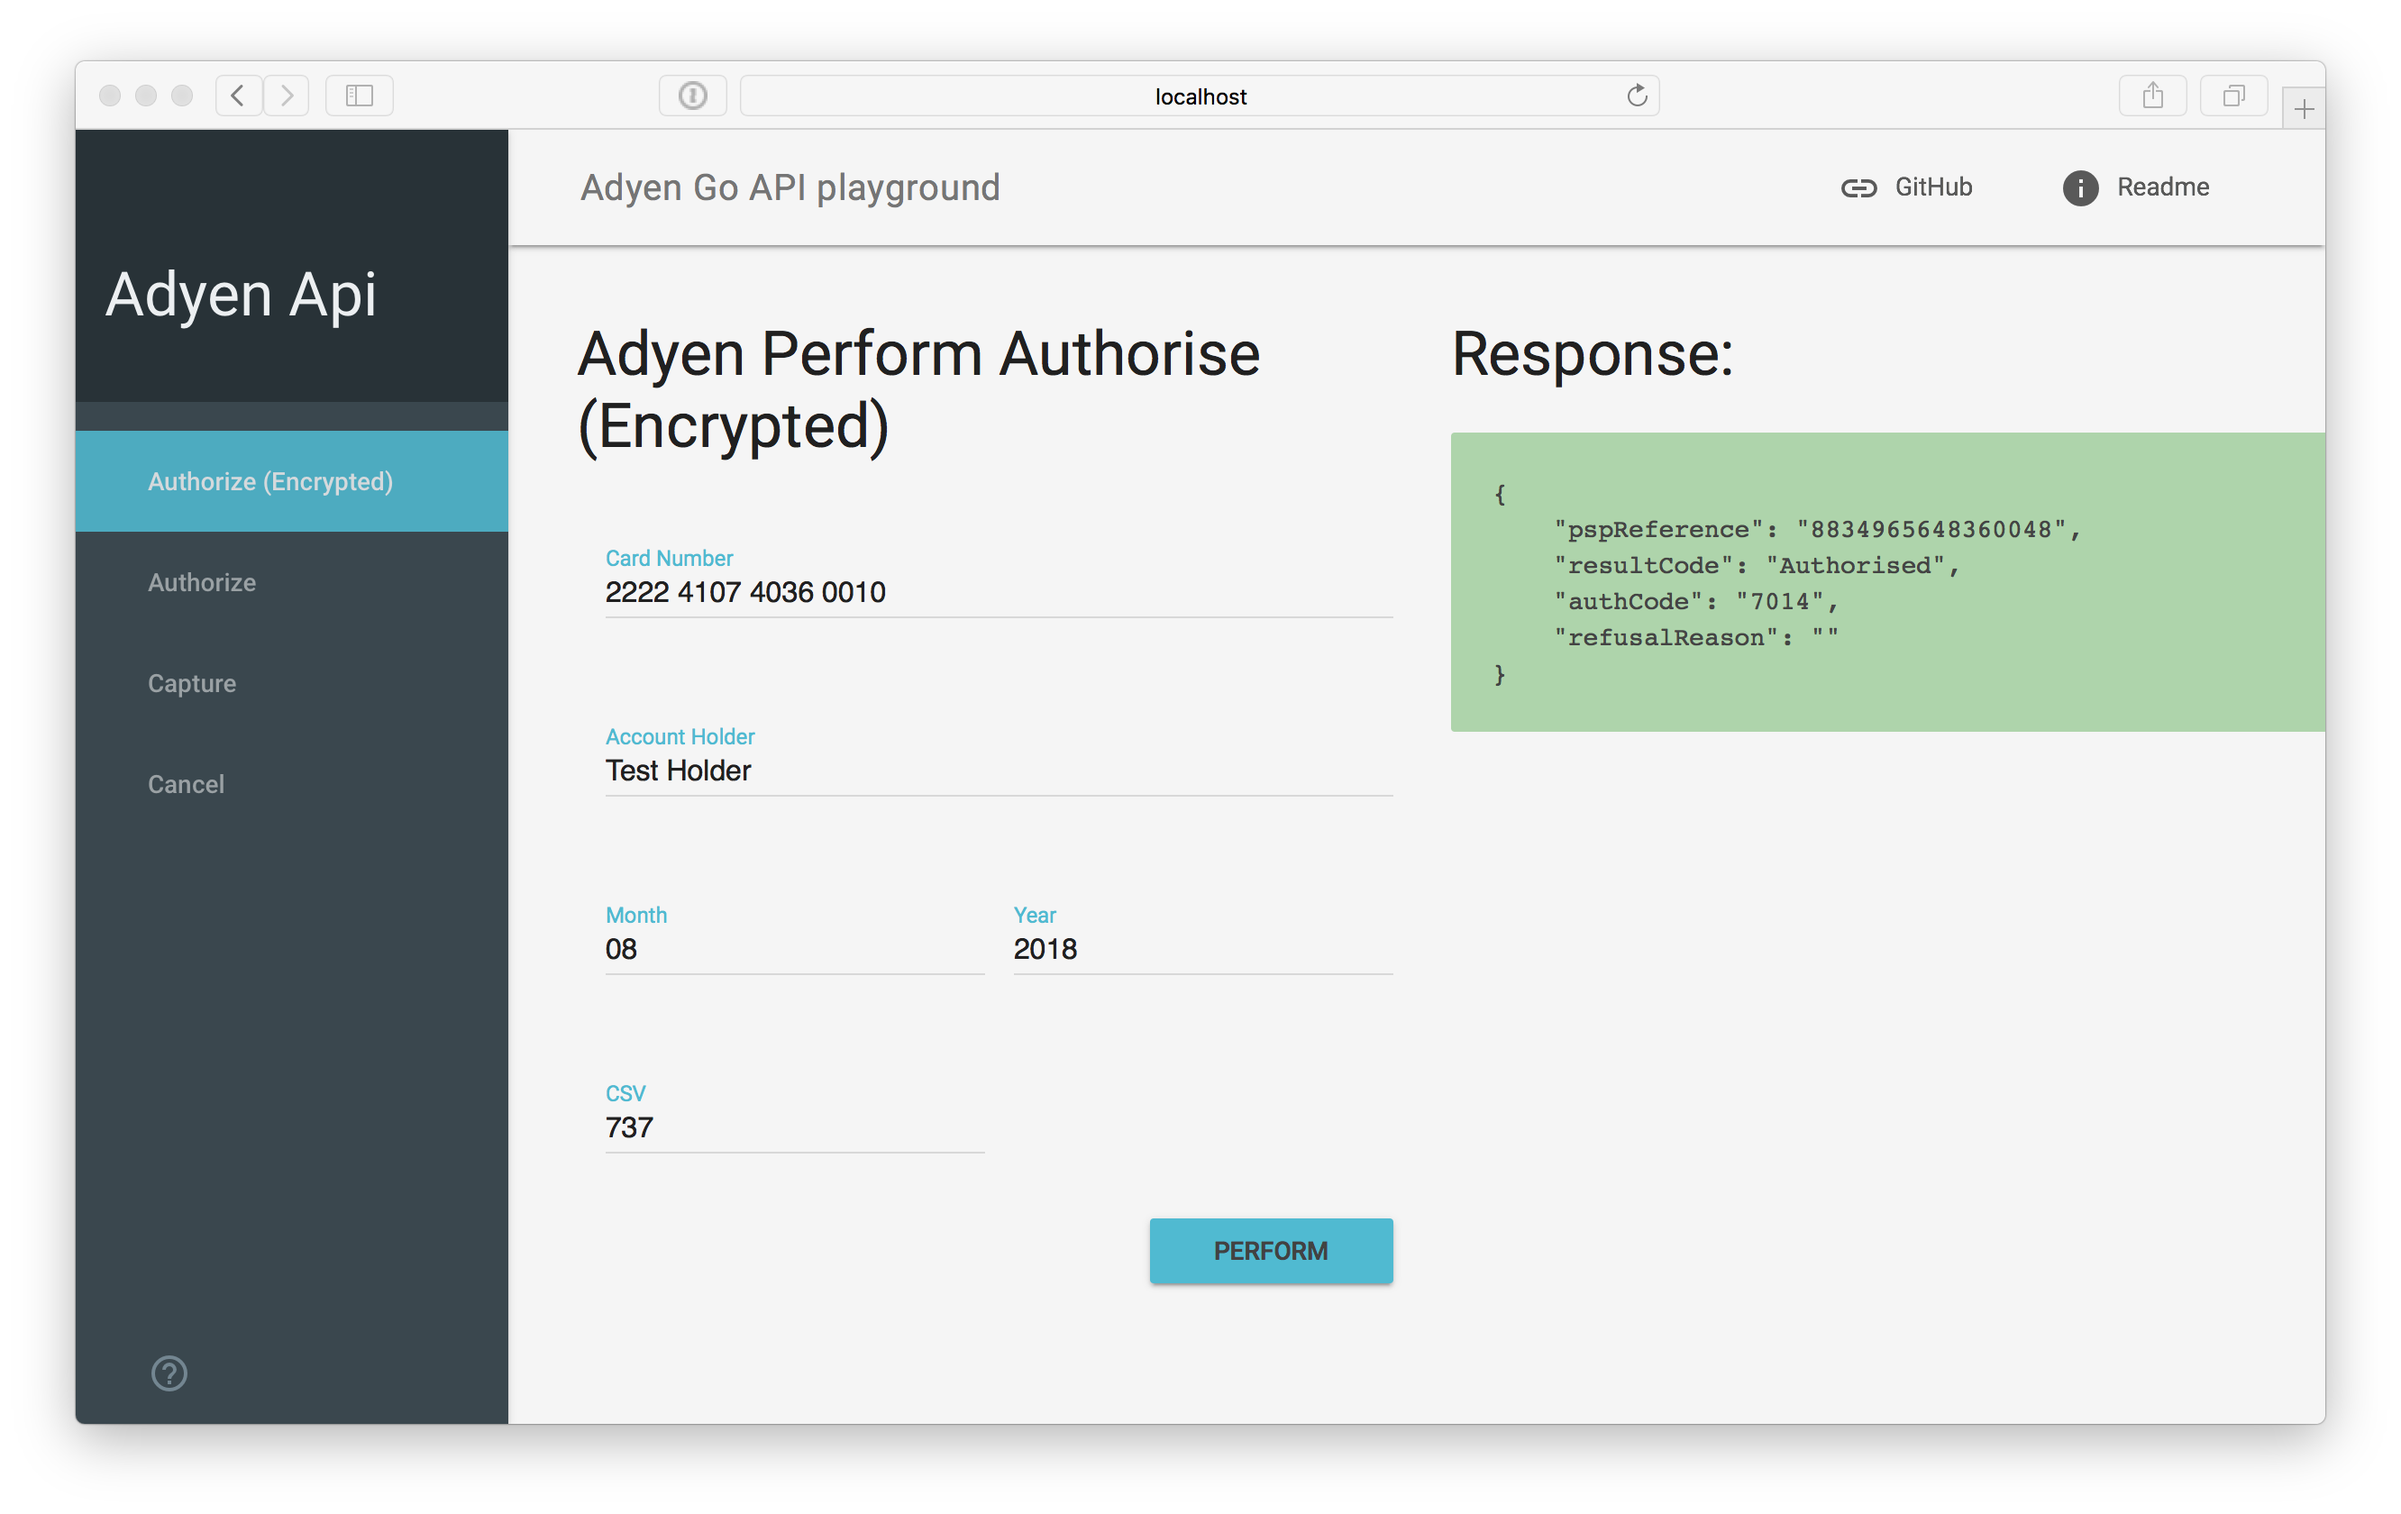
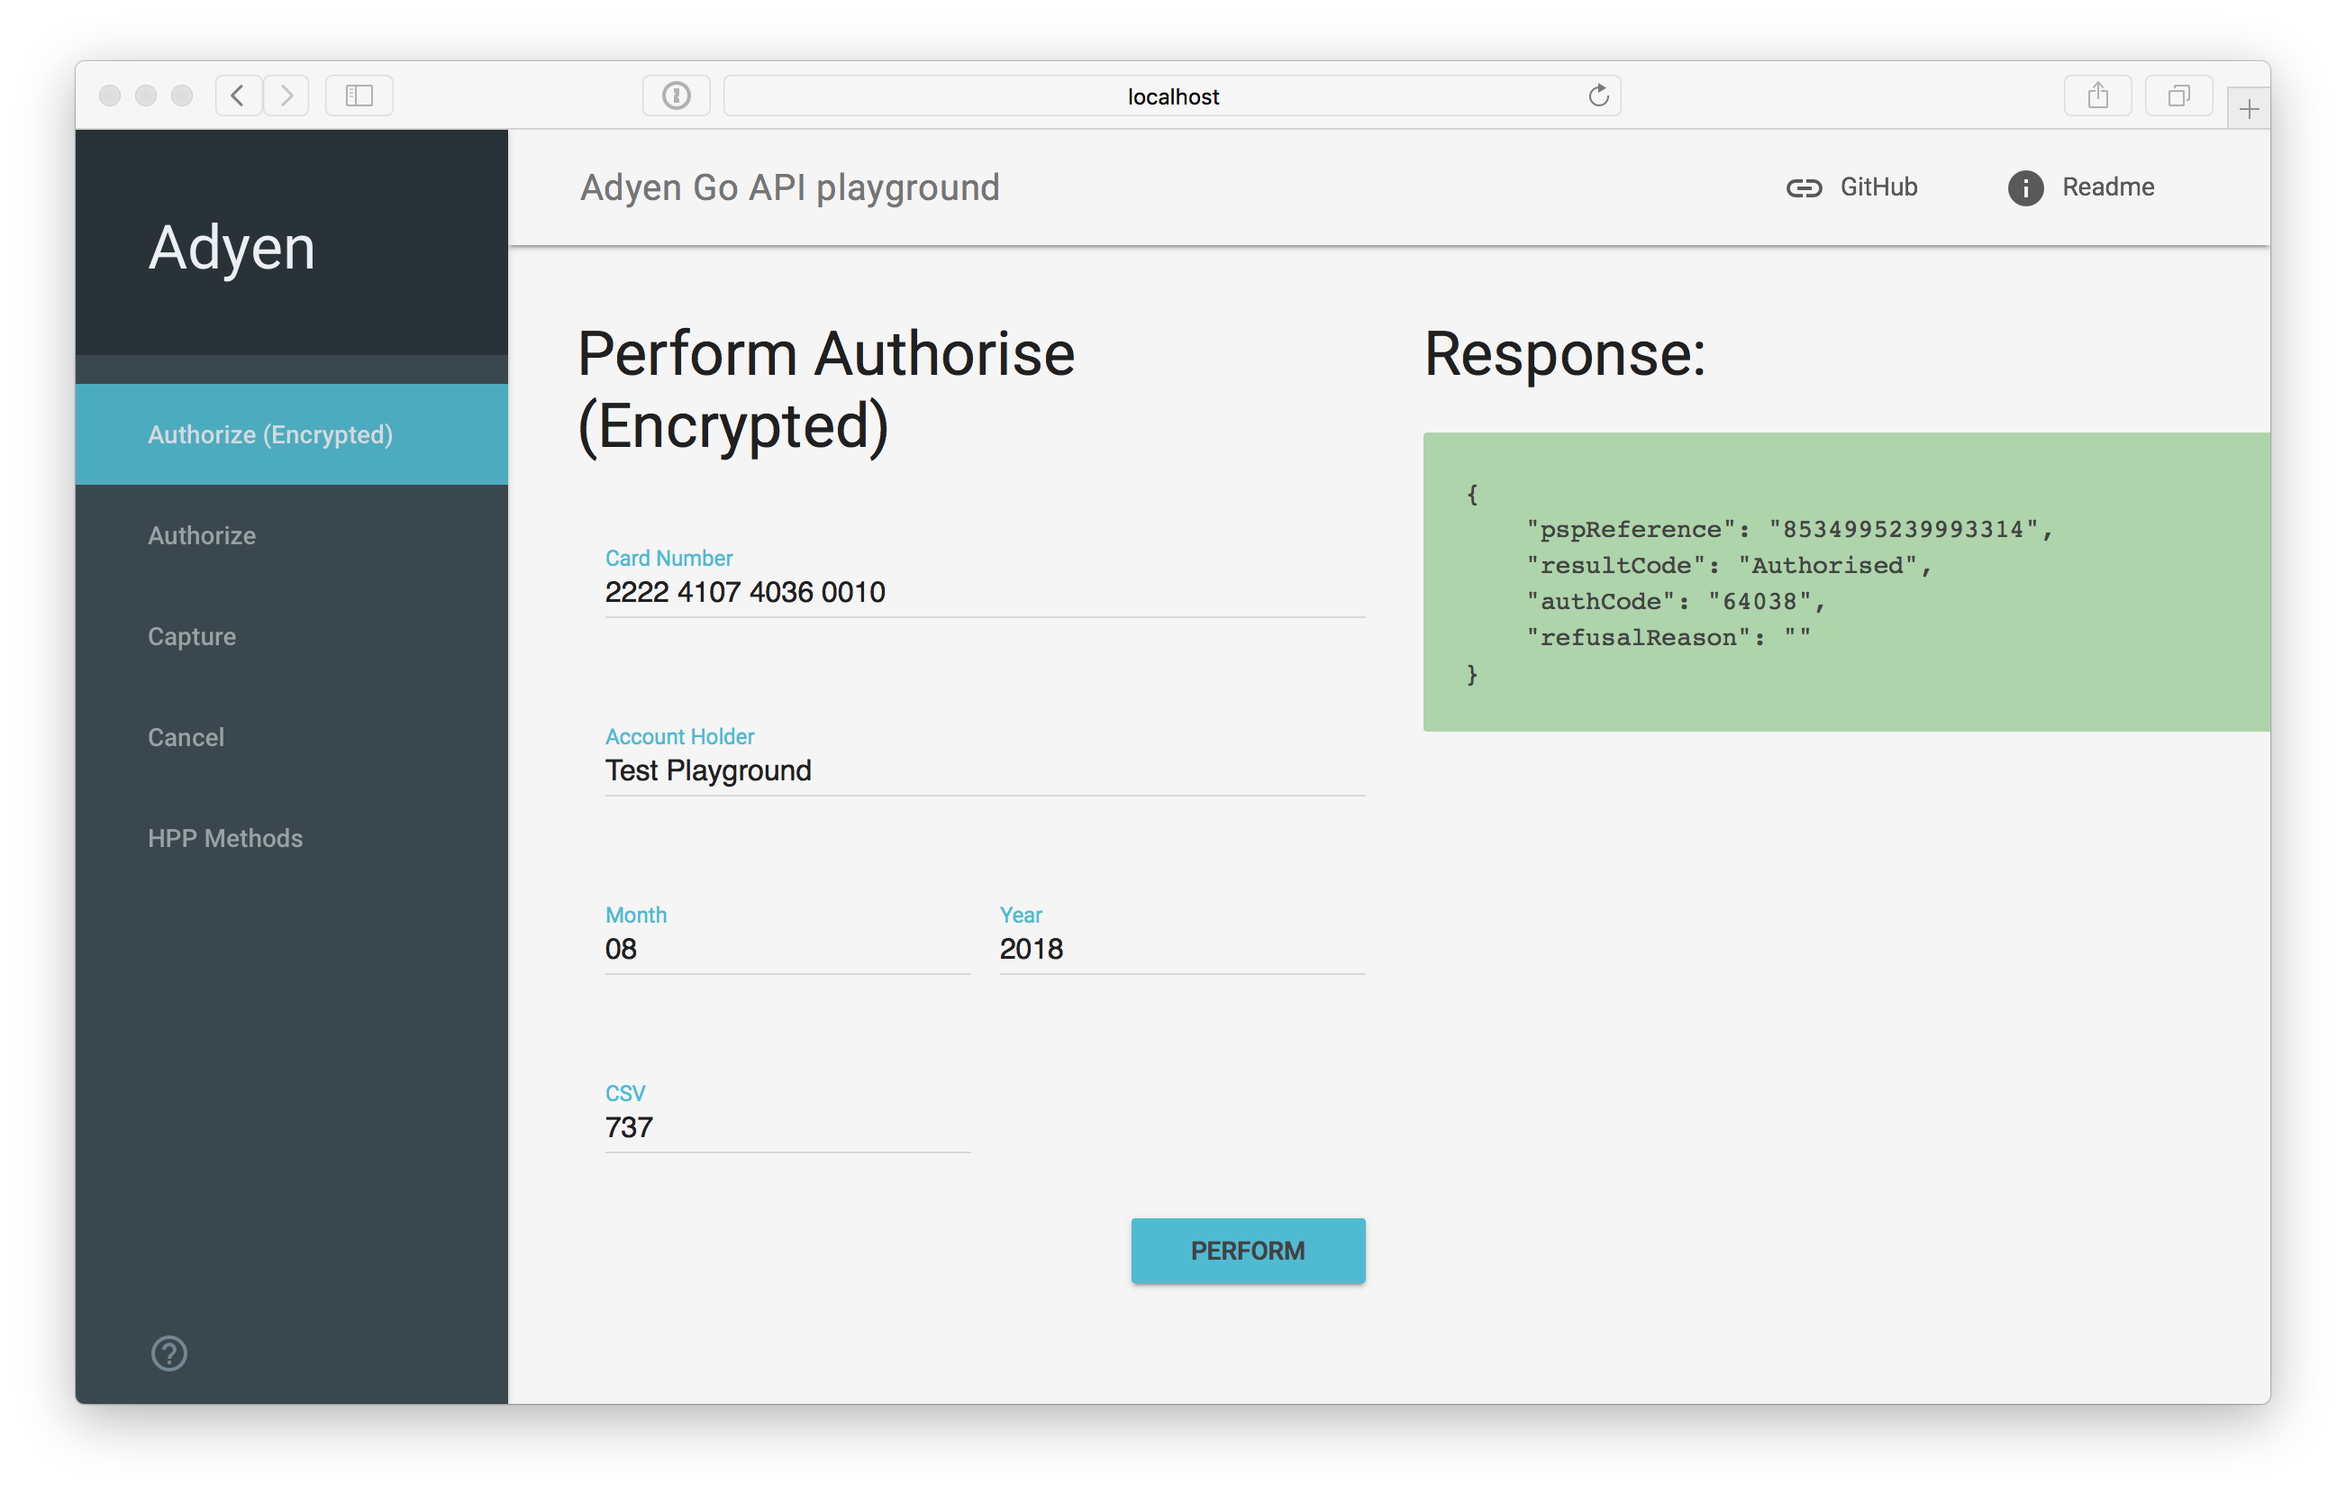
Styles fixes and readme updates

diff --git a/templates/index.html b/templates/index.html
@@ -41,7 +41,7 @@
       <div class="demo-drawer mdl-layout__drawer mdl-color--blue-grey-900 mdl-color-text--blue-grey-50">
         <header class="demo-drawer-header">
           <div class="demo-avatar-dropdown">
-            <h3>Adyen Api</h3>
+            <h3>Adyen</h3>
           </div>
         </header>
         <nav id="tab_links" class="demo-navigation mdl-navigation mdl-color--blue-grey-800">

diff --git a/static/css/style.css b/static/css/style.css
@@ -21,8 +21,8 @@ html, body {
     -webkit-justify-content: flex-end;
     -ms-flex-pack: end;
     justify-content: flex-end;
-    padding: 16px;
-    height: 151px;
+    padding: 16px 16px 16px 40px;
+    height: 125px;
 }
 
 .demo-navigation {

diff --git a/README.md b/README.md
@@ -49,6 +49,19 @@ Settings explanation:
 * ADYEN_PASSWORD - Adyen API password for username
 * ADYEN_ACCOUNT - Selected Merchant Account
 
+## Hosted Payment Pages
+
+![Alt text](./screenshots/hosted_payment_methods.png "Playground example")
+
+update your configuration and make sure you specify additional parameters
+
+```
+# API settings for Adyen Hosted Payment pages
+$ export ADYEN_HMAC="YOUR_HMAC_KEY"
+$ export ADYEN_SKINCODE="YOUR_SKINCODE_ID"
+$ export ADYEN_SHOPPER_LOCALE="YOUR_SHOPPER_LOCALE"
+```
+
 ## Run with Docker-compose
 
 Note: Expose your configuration (as shown above)
